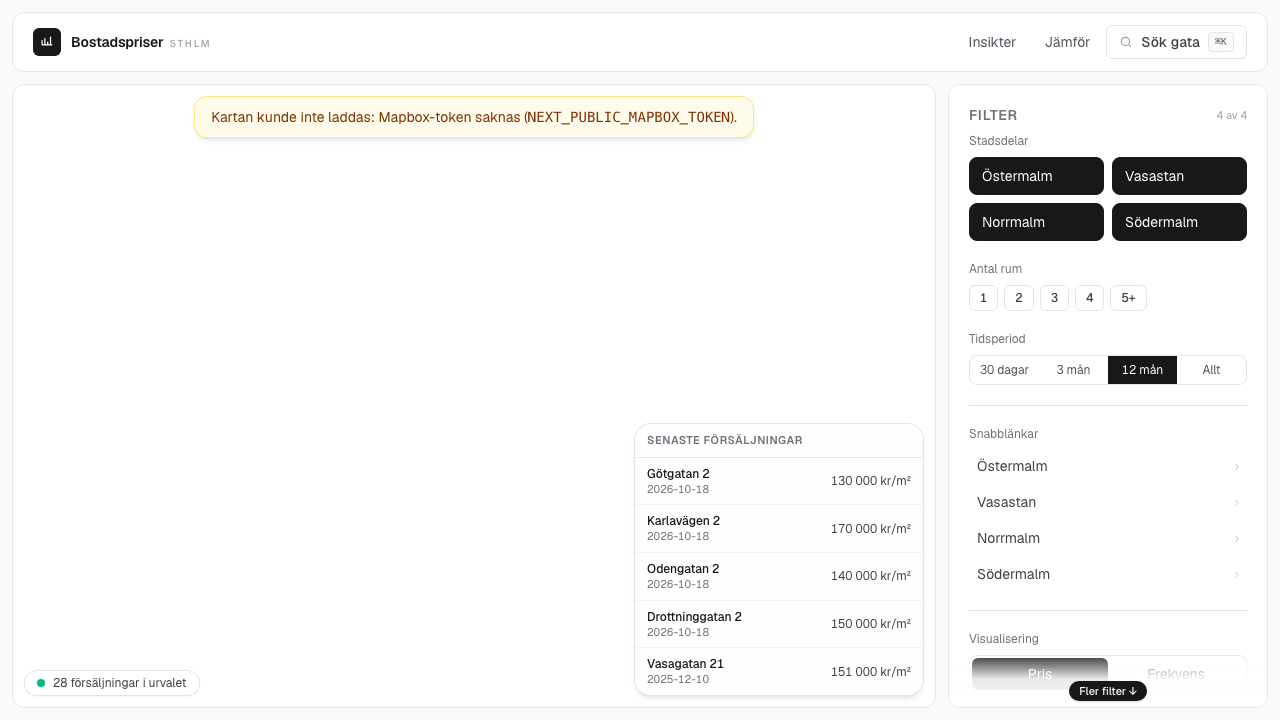
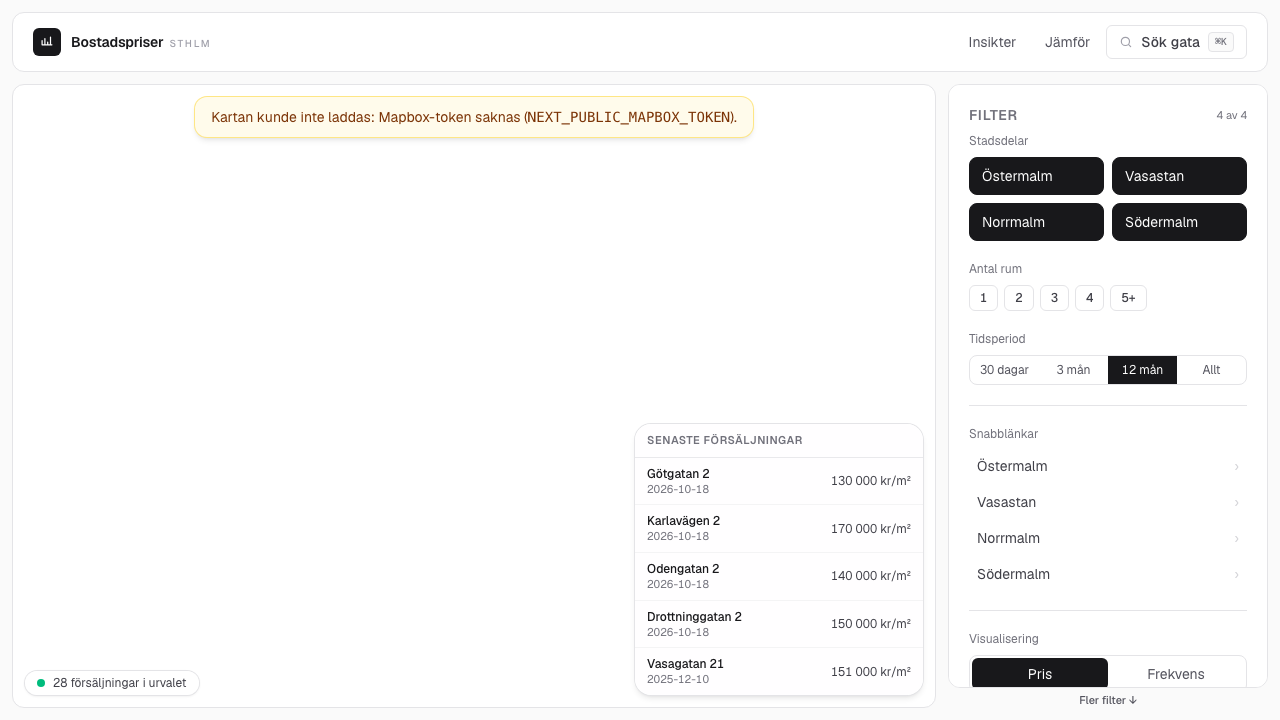
fix(web): landing nav reflows at 320 px; the more-filters hint no longer covers content (F20 review)
(cherry picked from commit 9efa0a1f7672f9276a35605be354b6c5b679837a)

Changed region(s): [[0.75, 0.9167, 0.9062, 0.9778], [0.9062, 0.9167, 0.9375, 0.9472]]

diff --git a/web/e2e/map.spec.ts b/web/e2e/map.spec.ts
@@ -197,47 +197,55 @@ test("filter changes keep unrelated parameters and the hash; junk is cleaned up 
 });
 
 // F20: the landing page works at phone width.
-test("nothing on the landing page overflows the viewport horizontally", async ({ page }) => {
-  await page.goto("/");
-  await expect(page.getByTestId("map-container")).toBeVisible();
-  const overflowing = await page.evaluate(() => {
-    const vw = document.documentElement.clientWidth;
-    const bad: string[] = [];
-    for (const el of document.querySelectorAll("nav *, aside *, main")) {
-      const r = el.getBoundingClientRect();
-      if (r.width === 0 || r.height === 0) continue;
-      // Descendants of the scrolling sidebar are clipped by it; only horizontal bounds matter.
-      if (r.left < -0.5 || r.right > vw + 0.5) {
-        bad.push(`${el.tagName.toLowerCase()} "${(el.textContent ?? "").trim().slice(0, 24)}" ${Math.round(r.left)}..${Math.round(r.right)} of ${vw}`);
+// 320 CSS px is the WCAG 1.4.10 reflow width; the default viewport is the project's own.
+for (const width of [null, 320] as const) {
+  test.describe(width ? "at 320 px" : "at the default viewport", () => {
+    if (width) test.use({ viewport: { width, height: 568 } });
+    const label = width ? " (320 px)" : "";
+  test(`nothing on the landing page overflows the viewport horizontally${label}`, async ({ page }) => {
+    await page.goto("/");
+    await expect(page.getByTestId("map-container")).toBeVisible();
+    const overflowing = await page.evaluate(() => {
+      const vw = document.documentElement.clientWidth;
+      const bad: string[] = [];
+      for (const el of document.querySelectorAll("nav *, aside *, main")) {
+        const r = el.getBoundingClientRect();
+        if (r.width === 0 || r.height === 0) continue;
+        // Descendants of the scrolling sidebar are clipped by it; only horizontal bounds matter.
+        if (r.left < -0.5 || r.right > vw + 0.5) {
+          bad.push(`${el.tagName.toLowerCase()} "${(el.textContent ?? "").trim().slice(0, 24)}" ${Math.round(r.left)}..${Math.round(r.right)} of ${vw}`);
+        }
       }
-    }
-    return bad;
+      return bad;
+    });
+    expect(overflowing).toEqual([]);
+    expect(await page.evaluate(() => document.documentElement.scrollWidth <= document.documentElement.clientWidth)).toBe(true);
   });
-  expect(overflowing).toEqual([]);
-  expect(await page.evaluate(() => document.documentElement.scrollWidth <= document.documentElement.clientWidth)).toBe(true);
-});
 
-test("every top nav target is reachable on the landing page", async ({ page }) => {
-  await page.goto("/");
-  const nav = page.getByRole("navigation");
-  const targets = [
-    nav.getByRole("link", { name: "Insikter" }),
-    nav.getByRole("link", { name: "Jämför" }),
-    nav.getByRole("button", { name: /Sök gata/ }),
-    nav.getByRole("link", { name: /Bostadspriser/ }),
-  ];
-  const vw = page.viewportSize()!.width;
-  for (const t of targets) {
-    await expect(t).toBeVisible();
-    const box = (await t.boundingBox())!;
-    expect(box.x).toBeGreaterThanOrEqual(0);
-    expect(box.x + box.width).toBeLessThanOrEqual(vw);
-    // Big enough to tap.
-    expect(box.height).toBeGreaterThanOrEqual(28);
-  }
-  await nav.getByRole("link", { name: "Insikter" }).click();
-  await expect(page).toHaveURL(/\/insights$/);
-});
+  test(`every top nav target is reachable on the landing page${label}`, async ({ page }) => {
+    await page.goto("/");
+    const nav = page.getByRole("navigation");
+    const targets = [
+      nav.getByRole("link", { name: "Insikter" }),
+      nav.getByRole("link", { name: "Jämför" }),
+      nav.getByRole("button", { name: /Sök gata/ }),
+      nav.getByRole("link", { name: /Bostadspriser/ }),
+    ];
+    const vw = page.viewportSize()!.width;
+    for (const t of targets) {
+      await expect(t).toBeVisible();
+      const box = (await t.boundingBox())!;
+      expect(box.x).toBeGreaterThanOrEqual(0);
+      expect(box.x + box.width).toBeLessThanOrEqual(vw);
+      // Big enough to tap.
+      expect(box.height).toBeGreaterThanOrEqual(28);
+    }
+    await nav.getByRole("link", { name: "Insikter" }).click();
+    await expect(page).toHaveURL(/\/insights$/);
+  });
+
+  });
+}
 
 test("the sidebar hints at more filters below and the source note is reachable", async ({ page }) => {
   await page.goto("/");

diff --git a/web/src/components/map/MapPage.tsx b/web/src/components/map/MapPage.tsx
@@ -114,8 +114,11 @@ export function MapPage() {
 function TopNav() {
   return (
     <div className="px-3 pt-3">
-      <nav className="flex items-center justify-between gap-2 rounded-xl border border-zinc-200 bg-white px-3 py-3 sm:px-5">
-        <BrandMark />
+      <nav className="flex flex-wrap items-center justify-between gap-x-2 gap-y-1 rounded-xl border border-zinc-200 bg-white px-3 py-3 sm:px-5">
+        {/* Below sm the "STHLM" tag goes; at 320 px the actions wrap under the brand. */}
+        <div className="max-sm:[&_span.uppercase]:hidden">
+          <BrandMark />
+        </div>
         <div className="flex shrink-0 items-center gap-0.5 text-sm sm:gap-1">
           <Link
             href="/insights"
@@ -170,7 +173,11 @@ function Sidebar({
   const [moreBelow, setMoreBelow] = useState(false);
   const measure = useCallback(() => {
     const el = asideRef.current;
-    if (el) setMoreBelow(el.scrollTop + el.clientHeight < el.scrollHeight - 4);
+    if (!el) return;
+    const remaining = el.scrollHeight - el.scrollTop - el.clientHeight;
+    // Showing the hint takes room from the sidebar, so use two thresholds;
+    // otherwise a sidebar that overflows by a few px would flicker.
+    setMoreBelow((shown) => (shown ? remaining > 4 : remaining > 28));
   }, []);
   useEffect(() => {
     measure();
@@ -182,7 +189,7 @@ function Sidebar({
   }, [measure]);
 
   return (
-    <div className="relative flex max-h-[45%] w-full shrink-0 md:max-h-none md:w-80">
+    <div className="flex max-h-[45%] w-full shrink-0 flex-col md:max-h-none md:w-80">
     <aside
       ref={asideRef}
       onScroll={measure}
@@ -315,15 +322,13 @@ function Sidebar({
       </p>
     </aside>
     {moreBelow && (
-      <div
+      <p
         data-testid="sidebar-more"
         aria-hidden
-        className="pointer-events-none absolute inset-x-px bottom-px flex h-14 items-end justify-center rounded-b-xl bg-gradient-to-t from-white via-white/90 to-transparent pb-1.5"
+        className="shrink-0 pt-1 text-center text-[11px] font-medium text-zinc-600"
       >
-        <span className="rounded-full bg-zinc-900 px-2.5 py-0.5 text-[11px] font-medium text-white shadow-sm">
-          Fler filter ↓
-        </span>
-      </div>
+        Fler filter ↓
+      </p>
     )}
     </div>
   );
